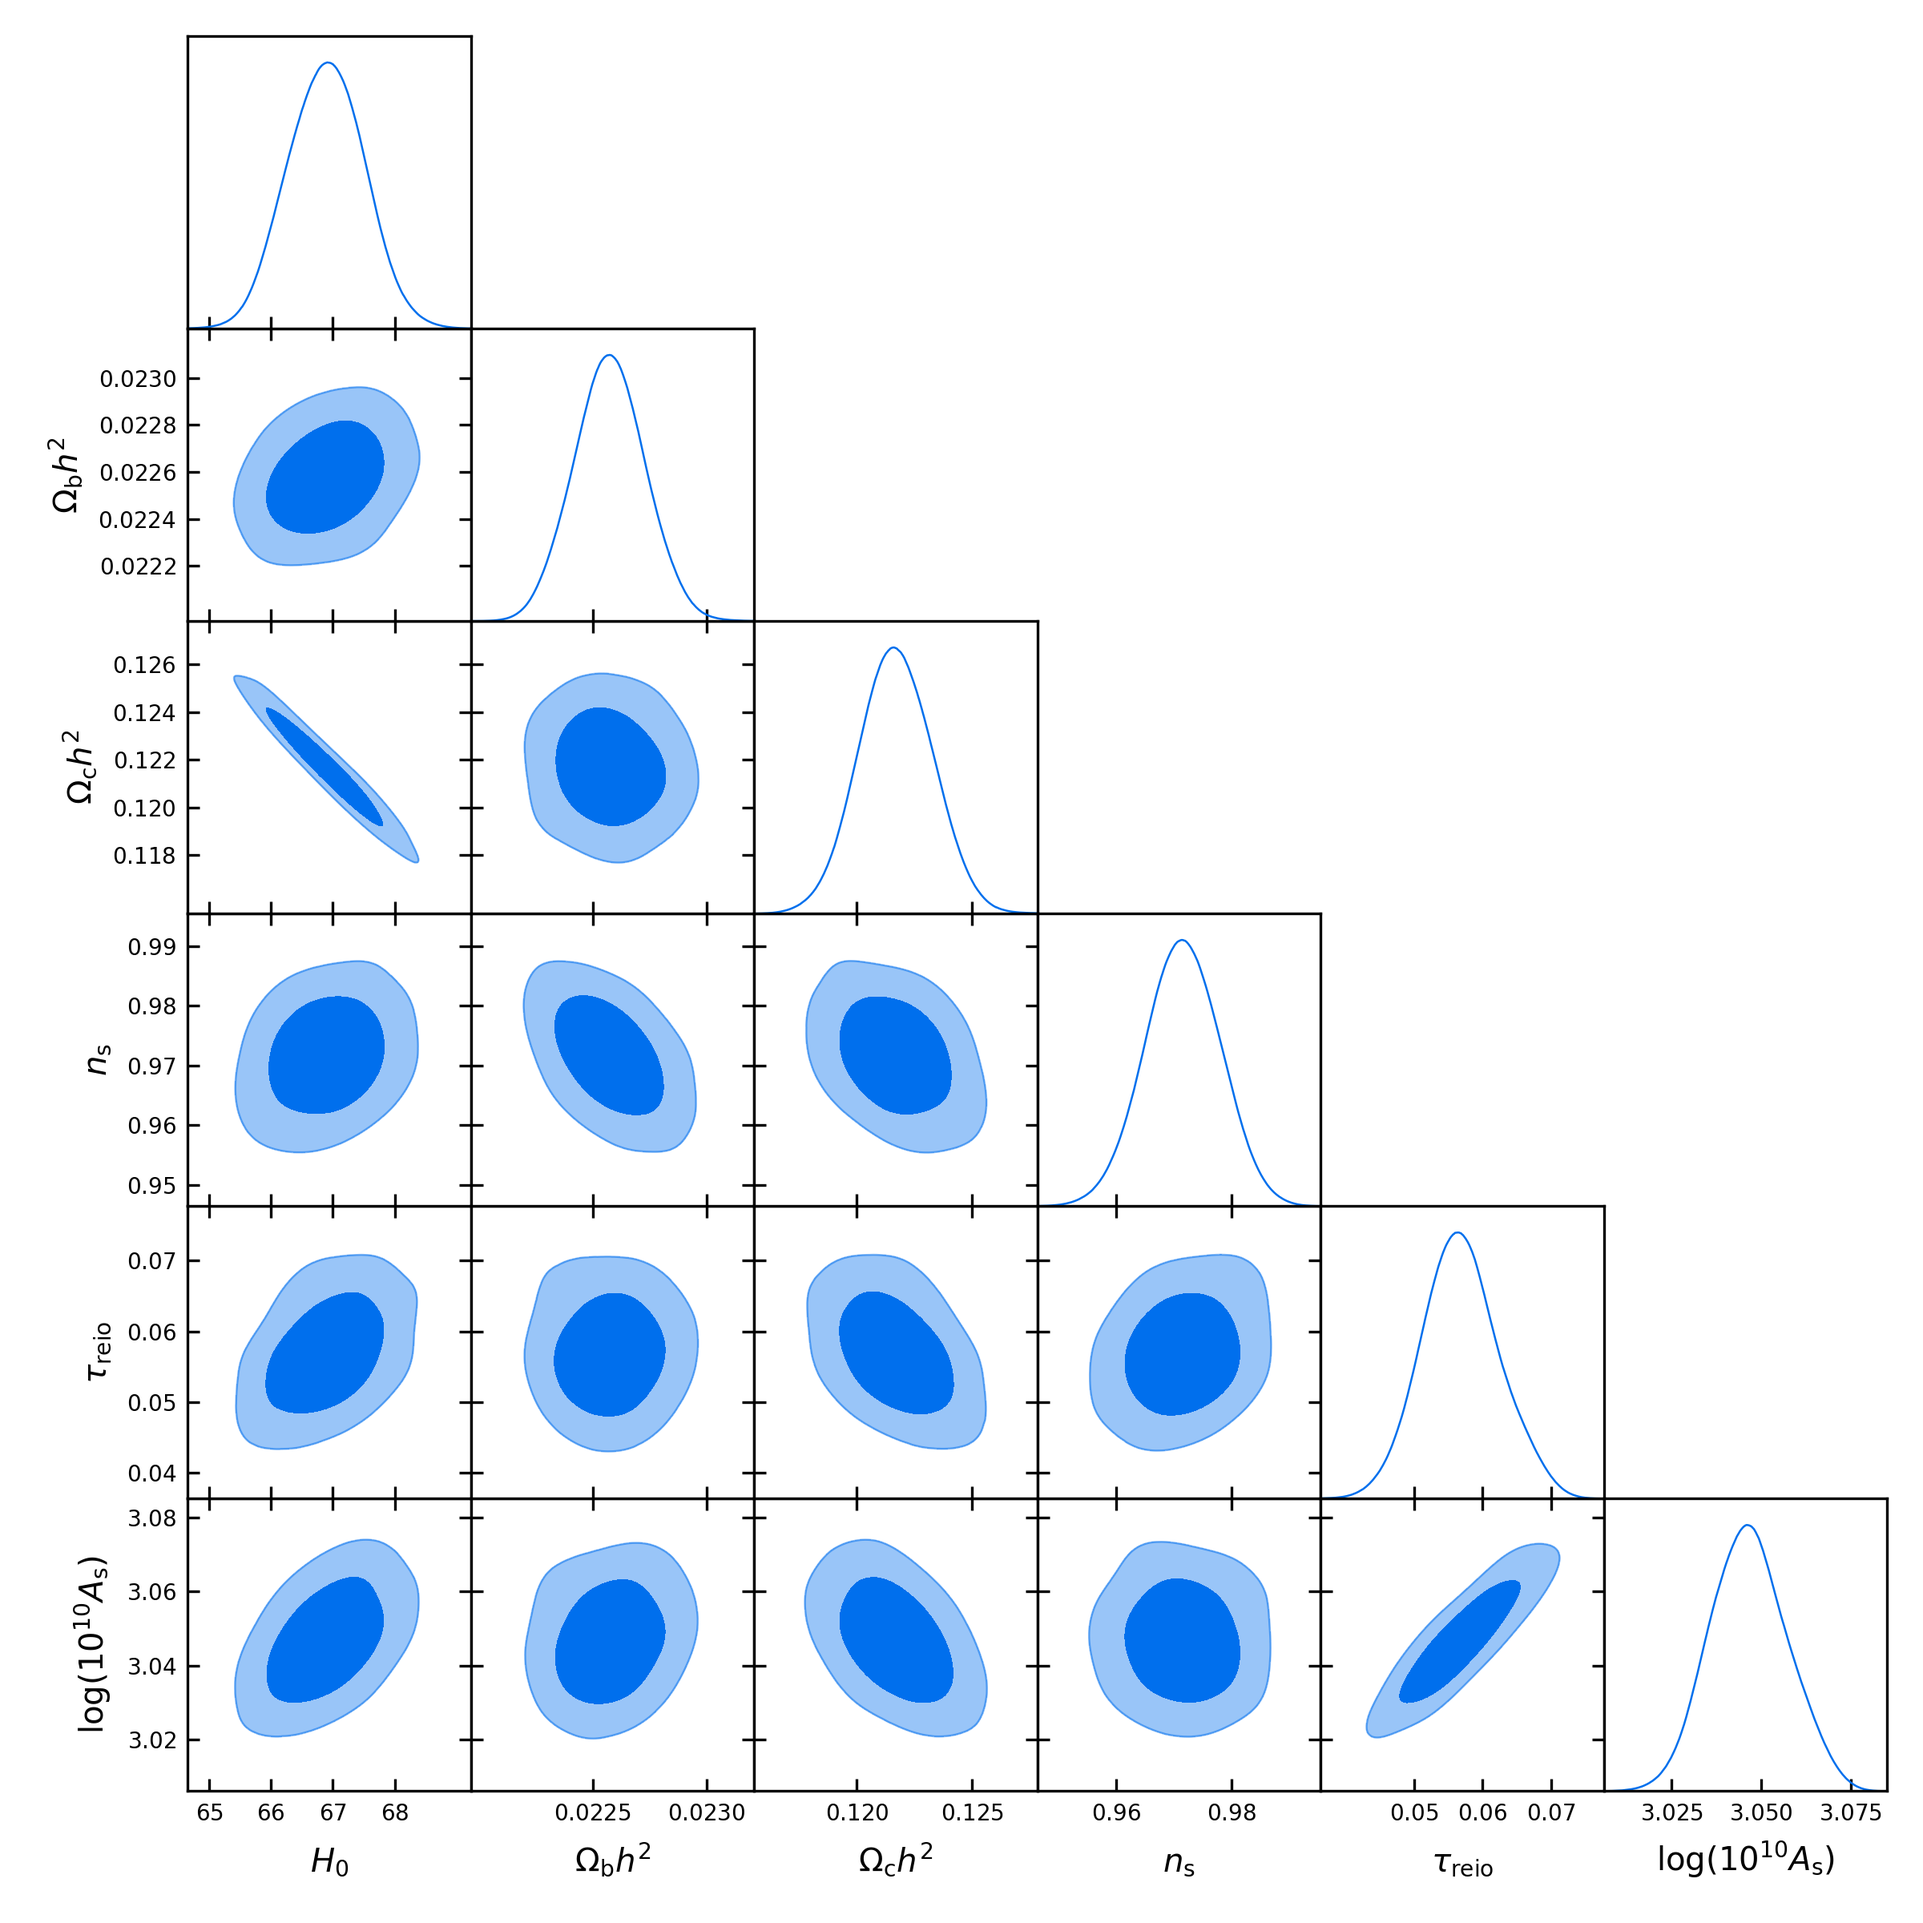
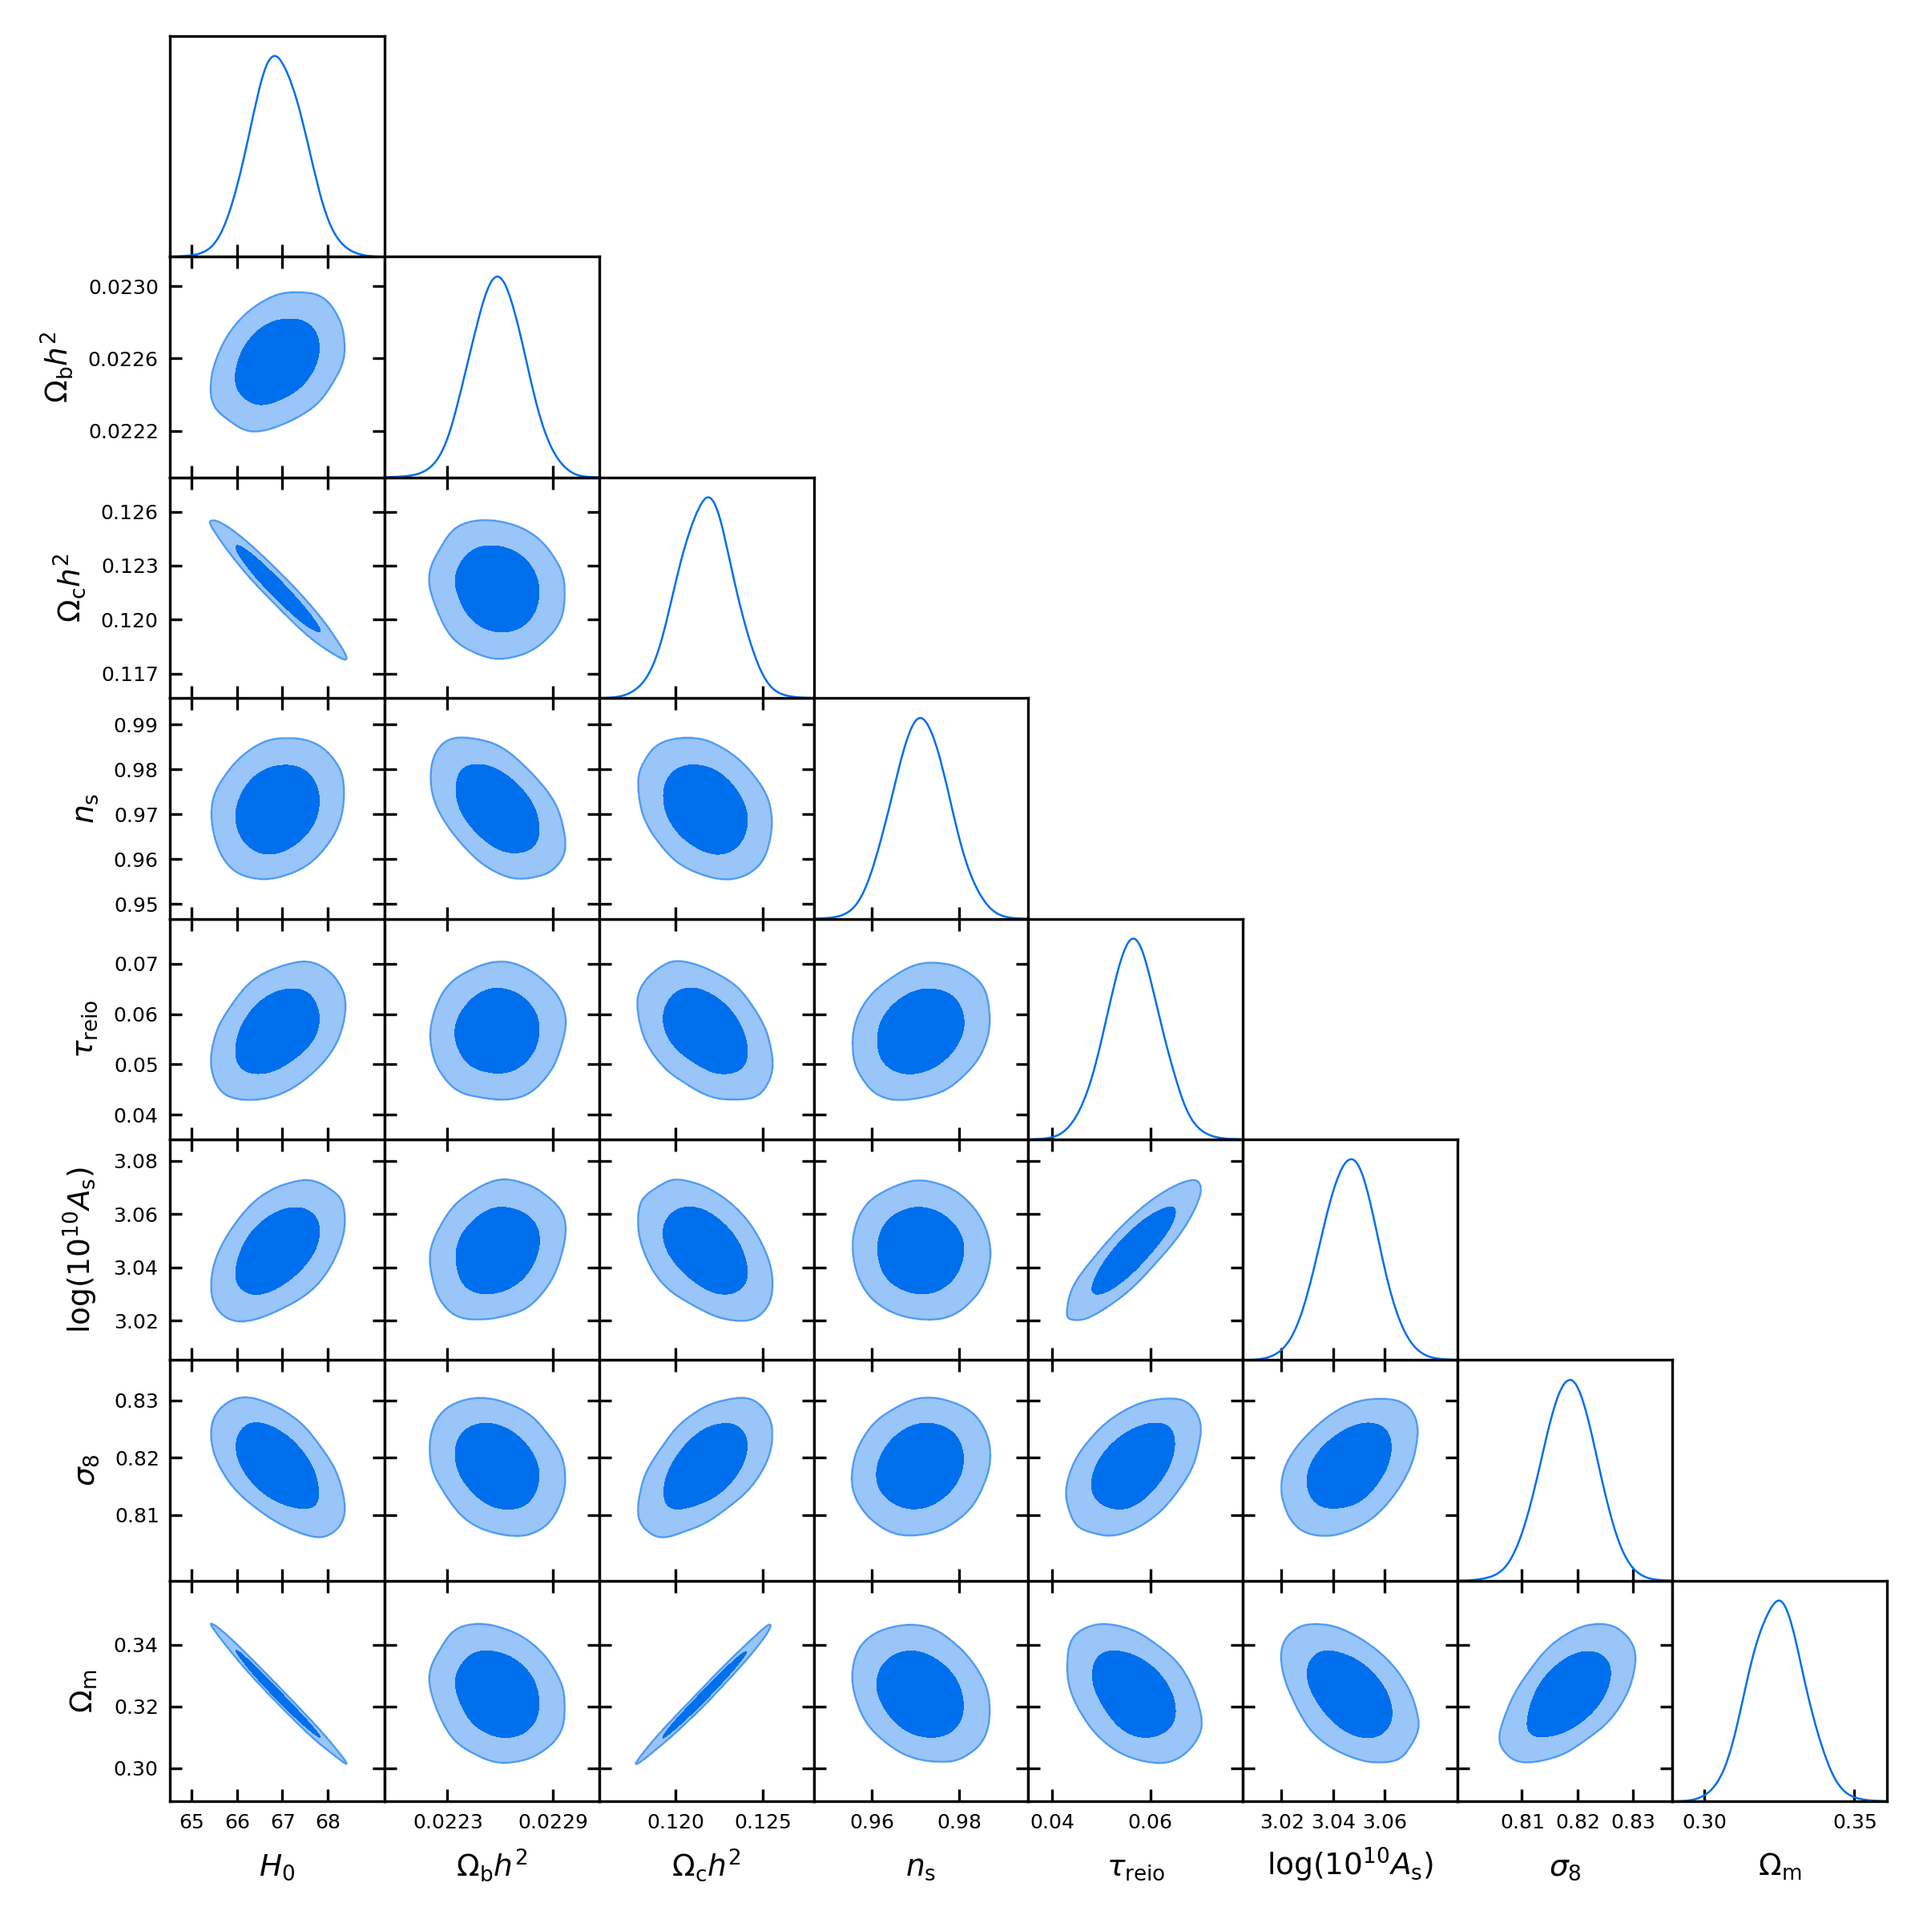
produced plots for converged runs

Changed region(s): [[0.0312, 0.0938, 0.9688, 0.9688], [0.8125, 0.625, 0.8438, 0.6562], [0.375, 0.2188, 0.4062, 0.25]]

diff --git a/scripts/analysis.py b/scripts/analysis.py
@@ -19,9 +19,20 @@ samples = getdist.loadMCSamples(chain_root, settings={"ignore_rows": 0.3})
 
 # select parameters to be displayed
 if "lcdm" in chain_base:
-    params = ["H0", "ombh2", "omch2", "ns", "tau", "logA"]
+    params = ["H0", "ombh2", "omch2", "ns", "tau", "logA", "sigma8", "omegam"]
 elif "w0wacdm" in chain_base:
-    params = ["H0", "ombh2", "omch2", "ns", "tau", "logA", "w", "wa"]
+    params = [
+        "H0",
+        "ombh2",
+        "omch2",
+        "ns",
+        "tau",
+        "logA",
+        "w",
+        "wa",
+        "omegam",
+        "sigma8",
+    ]
 
 # print Gelman-Rubin statistic
 Rminus1 = samples.getGelmanRubin()
